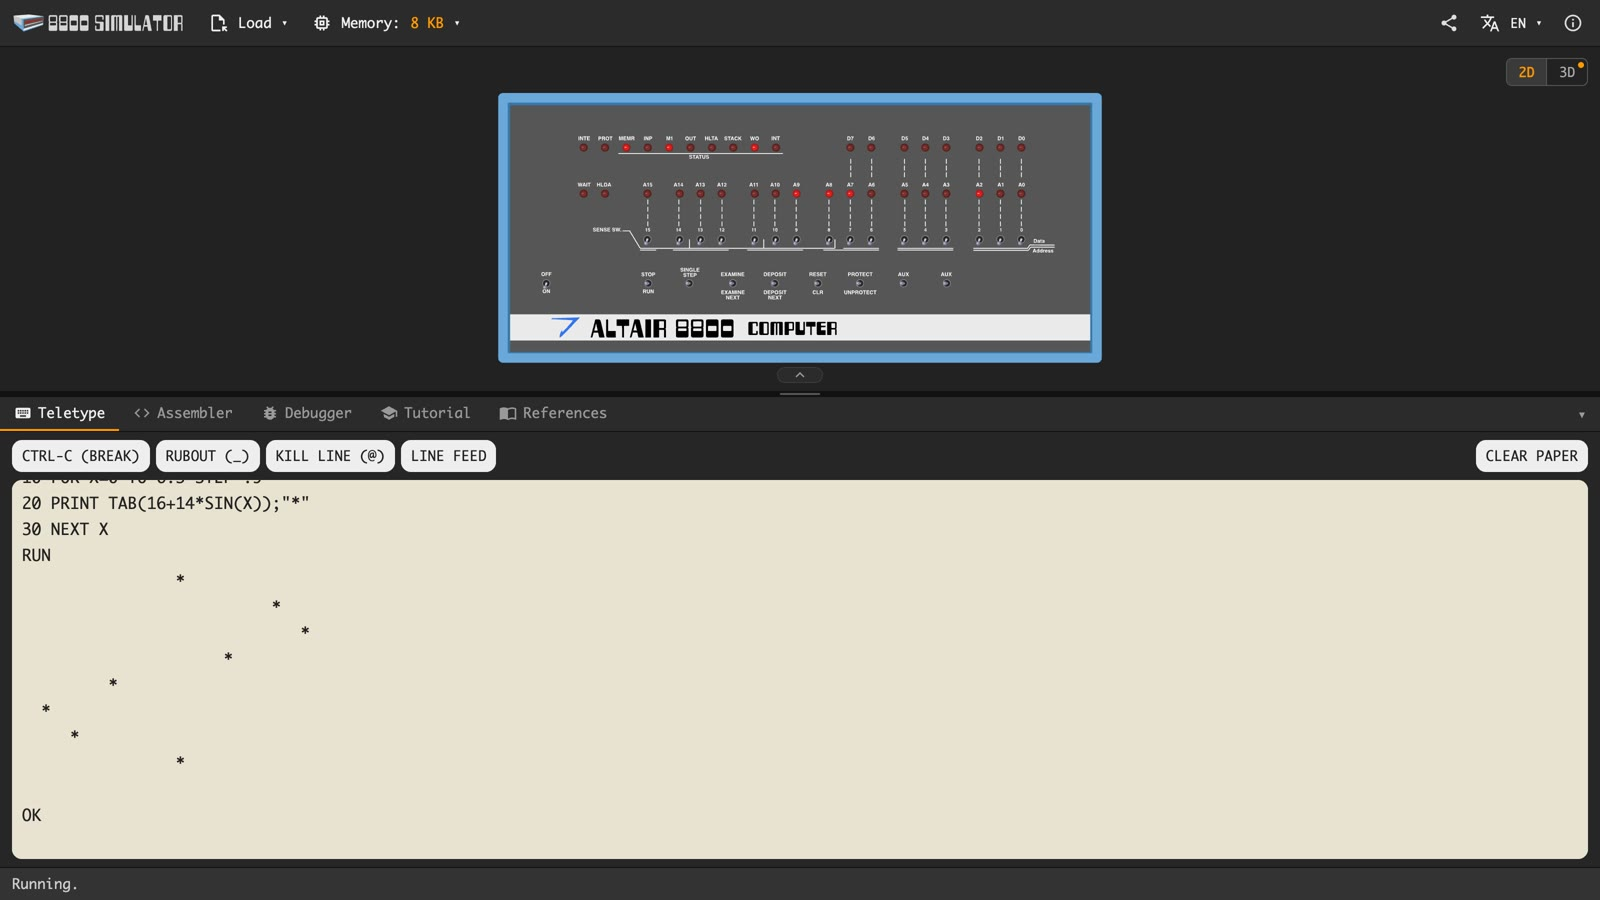
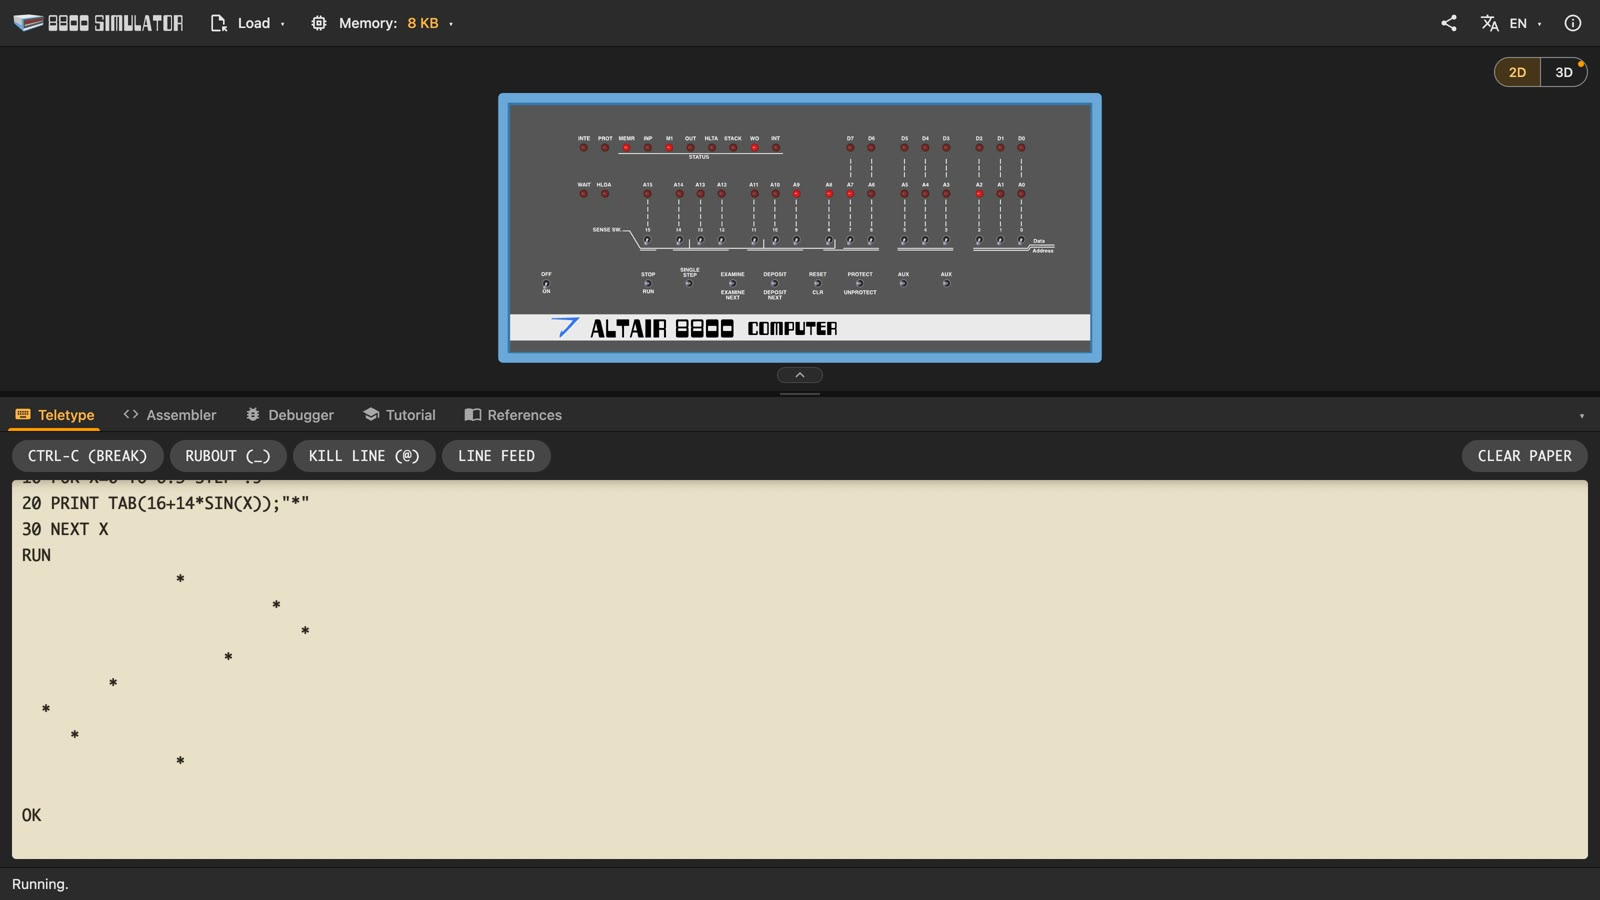
v1.9.0
The version, the README's screenshots, and its words brought in line
with Step and Run to, the phone's strip and Teletype keys, and the
pictures' alt text.

diff --git a/index.html b/index.html
@@ -26,11 +26,11 @@
          run icons (tools/icons.mjs). A browser that takes an SVG icon
          takes the second; sizes="32x32" on the first keeps Chrome from
          picking the .ico over it. -->
-    <link rel="icon" href="images/favicon.ico?v=1.8.3" sizes="32x32">
-    <link rel="icon" href="images/favicon.svg?v=1.8.3" type="image/svg+xml">
-    <link rel="apple-touch-icon" href="images/apple-touch-icon.png?v=1.8.3">
-    <link rel="manifest" href="manifest.webmanifest?v=1.8.3">
-    <link rel="stylesheet" href="css/style.css?v=1.8.3">
+    <link rel="icon" href="images/favicon.ico?v=1.9.0" sizes="32x32">
+    <link rel="icon" href="images/favicon.svg?v=1.9.0" type="image/svg+xml">
+    <link rel="apple-touch-icon" href="images/apple-touch-icon.png?v=1.9.0">
+    <link rel="manifest" href="manifest.webmanifest?v=1.9.0">
+    <link rel="stylesheet" href="css/style.css?v=1.9.0">
     <!-- Every file name here carries the version (?v=), and so does each
          module the scripts import, through this map: a release asks for
          new names, so no cache can serve an old file to a new page.
@@ -39,47 +39,47 @@
     <script type="importmap">
     {
       "imports": {
-        "./js/8080.js": "./js/8080.js?v=1.8.3",
-        "./js/app.js": "./js/app.js?v=1.8.3",
-        "./js/asm8080.js": "./js/asm8080.js?v=1.8.3",
-        "./js/asmtab.js": "./js/asmtab.js?v=1.8.3",
-        "./js/box.js": "./js/box.js?v=1.8.3",
-        "./js/dialog.js": "./js/dialog.js?v=1.8.3",
-        "./js/dropdown.js": "./js/dropdown.js?v=1.8.3",
-        "./js/l10n-3d.js": "./js/l10n-3d.js?v=1.8.3",
-        "./js/l10n.js": "./js/l10n.js?v=1.8.3",
-        "./js/link.js": "./js/link.js?v=1.8.3",
-        "./js/main.js": "./js/main.js?v=1.8.3",
-        "./js/panel-debug.js": "./js/panel-debug.js?v=1.8.3",
-        "./js/panel-dock.js": "./js/panel-dock.js?v=1.8.3",
-        "./js/panel-front.js": "./js/panel-front.js?v=1.8.3",
-        "./js/panel-link.js": "./js/panel-link.js?v=1.8.3",
-        "./js/panel-load.js": "./js/panel-load.js?v=1.8.3",
-        "./js/panel-tty.js": "./js/panel-tty.js?v=1.8.3",
-        "./js/panel-tutorial.js": "./js/panel-tutorial.js?v=1.8.3",
-        "./js/panel-view.js": "./js/panel-view.js?v=1.8.3",
-        "./js/panel.js": "./js/panel.js?v=1.8.3",
-        "./js/sim8800.js": "./js/sim8800.js?v=1.8.3",
-        "./js/sio.js": "./js/sio.js?v=1.8.3",
-        "./js/teletype.js": "./js/teletype.js?v=1.8.3",
-        "./js/view3d/boxBind.js": "./js/view3d/boxBind.js?v=1.8.3",
-        "./js/view3d/framing.js": "./js/view3d/framing.js?v=1.8.3",
-        "./js/view3d/panelBind.js": "./js/view3d/panelBind.js?v=1.8.3",
-        "./js/view3d/stage-state.js": "./js/view3d/stage-state.js?v=1.8.3",
-        "./js/view3d/view3d.js": "./js/view3d/view3d.js?v=1.8.3",
-        "./js/view3d/viewer.js": "./js/view3d/viewer.js?v=1.8.3",
-        "./js/view3d/views.js": "./js/view3d/views.js?v=1.8.3",
-        "./vendor/three/build/three.core.js": "./vendor/three/build/three.core.js?v=1.8.3",
-        "./vendor/three/build/three.module.js": "./vendor/three/build/three.module.js?v=1.8.3",
-        "./vendor/three/examples/jsm/controls/OrbitControls.js": "./vendor/three/examples/jsm/controls/OrbitControls.js?v=1.8.3",
-        "./vendor/three/examples/jsm/loaders/GLTFLoader.js": "./vendor/three/examples/jsm/loaders/GLTFLoader.js?v=1.8.3",
-        "./vendor/three/examples/jsm/utils/BufferGeometryUtils.js": "./vendor/three/examples/jsm/utils/BufferGeometryUtils.js?v=1.8.3",
-        "./vendor/three/examples/jsm/utils/SkeletonUtils.js": "./vendor/three/examples/jsm/utils/SkeletonUtils.js?v=1.8.3",
-        "three": "./vendor/three/build/three.module.js?v=1.8.3",
-        "three/addons/controls/OrbitControls.js": "./vendor/three/examples/jsm/controls/OrbitControls.js?v=1.8.3",
-        "three/addons/loaders/GLTFLoader.js": "./vendor/three/examples/jsm/loaders/GLTFLoader.js?v=1.8.3",
-        "three/addons/utils/BufferGeometryUtils.js": "./vendor/three/examples/jsm/utils/BufferGeometryUtils.js?v=1.8.3",
-        "three/addons/utils/SkeletonUtils.js": "./vendor/three/examples/jsm/utils/SkeletonUtils.js?v=1.8.3"
+        "./js/8080.js": "./js/8080.js?v=1.9.0",
+        "./js/app.js": "./js/app.js?v=1.9.0",
+        "./js/asm8080.js": "./js/asm8080.js?v=1.9.0",
+        "./js/asmtab.js": "./js/asmtab.js?v=1.9.0",
+        "./js/box.js": "./js/box.js?v=1.9.0",
+        "./js/dialog.js": "./js/dialog.js?v=1.9.0",
+        "./js/dropdown.js": "./js/dropdown.js?v=1.9.0",
+        "./js/l10n-3d.js": "./js/l10n-3d.js?v=1.9.0",
+        "./js/l10n.js": "./js/l10n.js?v=1.9.0",
+        "./js/link.js": "./js/link.js?v=1.9.0",
+        "./js/main.js": "./js/main.js?v=1.9.0",
+        "./js/panel-debug.js": "./js/panel-debug.js?v=1.9.0",
+        "./js/panel-dock.js": "./js/panel-dock.js?v=1.9.0",
+        "./js/panel-front.js": "./js/panel-front.js?v=1.9.0",
+        "./js/panel-link.js": "./js/panel-link.js?v=1.9.0",
+        "./js/panel-load.js": "./js/panel-load.js?v=1.9.0",
+        "./js/panel-tty.js": "./js/panel-tty.js?v=1.9.0",
+        "./js/panel-tutorial.js": "./js/panel-tutorial.js?v=1.9.0",
+        "./js/panel-view.js": "./js/panel-view.js?v=1.9.0",
+        "./js/panel.js": "./js/panel.js?v=1.9.0",
+        "./js/sim8800.js": "./js/sim8800.js?v=1.9.0",
+        "./js/sio.js": "./js/sio.js?v=1.9.0",
+        "./js/teletype.js": "./js/teletype.js?v=1.9.0",
+        "./js/view3d/boxBind.js": "./js/view3d/boxBind.js?v=1.9.0",
+        "./js/view3d/framing.js": "./js/view3d/framing.js?v=1.9.0",
+        "./js/view3d/panelBind.js": "./js/view3d/panelBind.js?v=1.9.0",
+        "./js/view3d/stage-state.js": "./js/view3d/stage-state.js?v=1.9.0",
+        "./js/view3d/view3d.js": "./js/view3d/view3d.js?v=1.9.0",
+        "./js/view3d/viewer.js": "./js/view3d/viewer.js?v=1.9.0",
+        "./js/view3d/views.js": "./js/view3d/views.js?v=1.9.0",
+        "./vendor/three/build/three.core.js": "./vendor/three/build/three.core.js?v=1.9.0",
+        "./vendor/three/build/three.module.js": "./vendor/three/build/three.module.js?v=1.9.0",
+        "./vendor/three/examples/jsm/controls/OrbitControls.js": "./vendor/three/examples/jsm/controls/OrbitControls.js?v=1.9.0",
+        "./vendor/three/examples/jsm/loaders/GLTFLoader.js": "./vendor/three/examples/jsm/loaders/GLTFLoader.js?v=1.9.0",
+        "./vendor/three/examples/jsm/utils/BufferGeometryUtils.js": "./vendor/three/examples/jsm/utils/BufferGeometryUtils.js?v=1.9.0",
+        "./vendor/three/examples/jsm/utils/SkeletonUtils.js": "./vendor/three/examples/jsm/utils/SkeletonUtils.js?v=1.9.0",
+        "three": "./vendor/three/build/three.module.js?v=1.9.0",
+        "three/addons/controls/OrbitControls.js": "./vendor/three/examples/jsm/controls/OrbitControls.js?v=1.9.0",
+        "three/addons/loaders/GLTFLoader.js": "./vendor/three/examples/jsm/loaders/GLTFLoader.js?v=1.9.0",
+        "three/addons/utils/BufferGeometryUtils.js": "./vendor/three/examples/jsm/utils/BufferGeometryUtils.js?v=1.9.0",
+        "three/addons/utils/SkeletonUtils.js": "./vendor/three/examples/jsm/utils/SkeletonUtils.js?v=1.9.0"
       }
     }
     </script>
@@ -121,8 +121,8 @@
         <div id="header-title">
           <picture>
             <source media="(max-width: 700px)"
-                    srcset="images/8800-simulator-logo.svg?v=1.8.3">
-            <img id="header-logo" class="logo" src="images/8800-simulator-logo-text-white.svg?v=1.8.3"
+                    srcset="images/8800-simulator-logo.svg?v=1.9.0">
+            <img id="header-logo" class="logo" src="images/8800-simulator-logo-text-white.svg?v=1.9.0"
                  alt="Altair 8800 Simulator" draggable="false">
           </picture>
         </div>
@@ -204,19 +204,19 @@
 
         <svg id="panel" width="100%" height="100%" viewBox="0 0 1440 644" version="1.1" xmlns="http://www.w3.org/2000/svg" xmlns:xlink="http://www.w3.org/1999/xlink" xml:space="preserve" xmlns:serif="http://www.serif.com/" style="fill-rule:evenodd;clip-rule:evenodd;stroke-linecap:round;stroke-linejoin:round;stroke-miterlimit:1.5;">
           <!-- Panel artwork. Edit images/panel.svg to change it. -->
-          <image x="0" y="0" width="1440" height="644" href="images/panel.svg?v=1.8.3"/>
+          <image x="0" y="0" width="1440" height="644" href="images/panel.svg?v=1.9.0"/>
 
           <!-- Sprites cloned by panel.js for every LED and switch. -->
-          <image id="led-on" x="0" y="0" width="20" height="20" href="images/led-on.svg?v=1.8.3"/>
-          <image id="led-off" x="0" y="0" width="20" height="20" href="images/led-off.svg?v=1.8.3"/>
-          <image id="switch-up" x="0" y="0" width="20" height="30" href="images/switch-up.svg?v=1.8.3"/>
-          <image id="switch-mid" x="0" y="0" width="20" height="30" href="images/switch-mid.svg?v=1.8.3"/>
-          <image id="switch-down" x="0" y="0" width="20" height="30" href="images/switch-down.svg?v=1.8.3"/>
+          <image id="led-on" x="0" y="0" width="20" height="20" href="images/led-on.svg?v=1.9.0"/>
+          <image id="led-off" x="0" y="0" width="20" height="20" href="images/led-off.svg?v=1.9.0"/>
+          <image id="switch-up" x="0" y="0" width="20" height="30" href="images/switch-up.svg?v=1.9.0"/>
+          <image id="switch-mid" x="0" y="0" width="20" height="30" href="images/switch-mid.svg?v=1.9.0"/>
+          <image id="switch-down" x="0" y="0" width="20" height="30" href="images/switch-down.svg?v=1.9.0"/>
         </svg>
 
         <!-- The whole machine in 3D, drawn by js/view3d/ once it is first
              chosen: three.js and the model load only then (M5). -->
-        <div id="stage3d" data-src="model/altair-8800.glb?v=1.8.3" hidden>
+        <div id="stage3d" data-src="model/altair-8800.glb?v=1.9.0" hidden>
           <div id="stage3d-progress" class="stage3d-progress" hidden><div></div></div>
           <p id="stage3d-message" class="stage3d-message" hidden></p>
           <div id="part-label" class="part-label" hidden></div>
@@ -419,7 +419,7 @@
           </header>
           <div class="lesson-intro">
             <figure class="lesson-photo">
-              <img src="images/tutorial/altair-8800-and-teletype.jpg?v=1.8.3" width="960" height="720" alt="" loading="lazy" draggable="false">
+              <img src="images/tutorial/altair-8800-and-teletype.jpg?v=1.9.0" width="960" height="720" alt="" loading="lazy" draggable="false">
               <figcaption><span id="tut-meet-photo" class="l10n">An Altair 8800 beside a Model 33 Teletype.</span>
                 <span class="photo-credit"><span id="tutorial-photo-by" class="l10n">Photo:</span> <a href="https://commons.wikimedia.org/wiki/File:Altair_8800_and_Model_33_ASR_Teletype.jpg" target="_blank" rel="noopener">Tim Colegrove</a>, <a href="https://creativecommons.org/licenses/by-sa/4.0/" target="_blank" rel="noopener">CC BY-SA 4.0</a></span></figcaption>
             </figure>
@@ -667,7 +667,7 @@ RUN</pre>
       </div>
       <div class="dialog-body">
         <!-- The logo names the app, so the title band only says About. -->
-        <img id="about-logo" class="logo" src="images/8800-simulator-logo-text-white.svg?v=1.8.3"
+        <img id="about-logo" class="logo" src="images/8800-simulator-logo-text-white.svg?v=1.9.0"
              alt="Altair 8800 Simulator" draggable="false">
         <p class="dialog-text about-version"><span id="about-version" class="l10n">Version</span> <span id="app-version"></span></p>
         <p id="about-desc" class="dialog-text l10n">An Altair 8800 you can switch on in a web page: its front panel, a teletype running Microsoft's 4K BASIC, an 8080 assembler, and a debugger the real one never had.</p>
@@ -704,10 +704,10 @@ RUN</pre>
       </div>
     </dialog>
 
-    <audio id="sound-beepbeep" src="audio/beepbeep.mp3?v=1.8.3"></audio>
-    <audio id="sound-switch" src="audio/switch.mp3?v=1.8.3"></audio>
-    <audio id="sound-toggle" src="audio/toggle.mp3?v=1.8.3"></audio>
+    <audio id="sound-beepbeep" src="audio/beepbeep.mp3?v=1.9.0"></audio>
+    <audio id="sound-switch" src="audio/switch.mp3?v=1.9.0"></audio>
+    <audio id="sound-toggle" src="audio/toggle.mp3?v=1.9.0"></audio>
 
-    <script type="module" src="js/main.js?v=1.8.3"></script>
+    <script type="module" src="js/main.js?v=1.9.0"></script>
   </body>
 </html>

diff --git a/README.md b/README.md
@@ -27,10 +27,10 @@ nothing to install, on a desktop or a phone, in ten languages.
 </tr>
 <tr>
 <td><b>Boot Microsoft 4K BASIC</b><br>Bill Gates and Paul Allen's 1975 BASIC, unmodified, on a Teletype.<br><img src="./screenshots/teletype.jpg" alt="Microsoft 4K BASIC on the Teletype: a short program typed in, and its sine wave of stars printed down the paper"></td>
-<td><b>Write 8080 assembly</b><br>Intel's own language, macros and all, assembled as you type.<br><img src="./screenshots/assembler.jpg" alt="The Assembler with the Macros example: coloured source on the left, each line's address and bytes on the right, the line being run marked in green"></td>
+<td><b>Write 8080 assembly</b><br>Intel's own language, macros and all, assembled as you type.<br><img src="./screenshots/assembler.jpg" alt="The Assembler with the Macros example: coloured source on the left, each line's address and bytes on the right, running"></td>
 </tr>
 <tr>
-<td><b>Watch the CPU work</b><br>Registers, the next instruction and memory, a step at a time.<br><img src="./screenshots/debugger.jpg" alt="The Debugger part way through the adder: the registers beside the next instruction, LDA 0081H, and the memory dump marking its three bytes"></td>
+<td><b>Watch the CPU work</b><br>Registers, the next instruction and memory, a step at a time.<br><img src="./screenshots/debugger.jpg" alt="The Debugger part way through the adder: the registers beside the next instruction, LDA 0081H, with Step and Run to under it, and the memory dump marking its three bytes"></td>
 <td><b>Learn as you go</b><br>Four lessons, from meeting the machine to running BASIC.<br><img src="./screenshots/tutorial.jpg" alt="The Tutorial's first lesson, Meet the Machine, under the front panel: a photo of an Altair 8800 beside a Teletype, and a paragraph on its history"></td>
 </tr>
 </table>
@@ -93,8 +93,10 @@ whole of the way in and out.
 The switches come in groups of three because 8080 programmers wrote
 bytes in octal: `00 111 010` is 072 octal, or 3AH. Click the panel's
 own switches, or the large buttons on the strip under it, which are
-easier to hit and show which switches are up. The small arrow on the
-strip's top edge folds it away.
+easier to hit and show which switches are up. On a phone the strip
+shortens the longer names (STEP, EXAM, DEP, NEXT) and puts the address
+switches a byte to a row. The small arrow on the strip's top edge
+folds it away.
 
 **One simplification.** SINGLE STEP here always runs one whole
 instruction, as the Altair's Operator's Manual describes it. The
@@ -176,9 +178,10 @@ tools below it, and a status line along the foot.
   the whole machine in 3D, and back (below).
 
 The **Debugger** is a view the real Altair never had. Step through a
-program with SINGLE STEP and watch it work:
+program, with SINGLE STEP or with its own Step and Run to, and watch
+it work:
 
-![The Debugger part way through the adder: the registers beside the next instruction, LDA 0081H, and the memory dump marking its three bytes](./screenshots/debugger.jpg)
+![The Debugger part way through the adder: the registers beside the next instruction, LDA 0081H, with Step and Run to under it, and the memory dump marking its three bytes](./screenshots/debugger.jpg)
 
 - **The registers**, with the flags S Z AC P CY lit when set.
 - **The next instruction**: its address, its bytes, its mnemonic with
@@ -256,7 +259,8 @@ Try the *Teletype Examples* from the Load menu, in this order:
    five tries.
 
 The keys a PC keyboard lacks, such as BREAK, RUBOUT and LINE FEED, are
-along the top of the paper.
+along the top of the paper; on a phone, where the paper takes the whole
+tab, they are under it.
 
 ### Microsoft 4K BASIC
 
@@ -307,7 +311,7 @@ Intel's answer, the same year, was assembly language: you write
 tab, under the panel, takes the language exactly as Intel's *8080
 Assembly Language Programming Manual* defines it, macros and all.
 
-![The Assembler with the Macros example: coloured source on the left, each line's address and bytes on the right, the line being run marked in green](./screenshots/assembler.jpg)
+![The Assembler with the Macros example: coloured source on the left, each line's address and bytes on the right, running](./screenshots/assembler.jpg)
 
 Here is that first program again, with names for its addresses
 instead of the numbers. It makes exactly the bytes you toggled in:

diff --git a/docs/ui-design.md b/docs/ui-design.md
@@ -161,7 +161,7 @@ Each kind of control is one component, used the same way everywhere:
 | Icon button | familiar app-level actions: Share, the language, About; folding the switch strip | always with a tooltip and a screen-reader name, both translated |
 | Empty state | guidance that matters only until something happens: the teletype's hint | shown inside the empty area, and gone once there is content |
 
-These are Material Design's patterns, and since v1.8.4 its look too
+These are Material Design's patterns, and since v1.9.0 its look too
 (P11). Every flat control on the dark chrome - toolbar buttons, dock
 tabs, the strip's tab - answers the pointer with the same highlight.
 
@@ -174,7 +174,7 @@ knows how all of them behave.
 
 ### P11 — Material 3's tokens, not its components
 
-Since v1.8.4 every control takes its colours, corners, type and states
+Since v1.9.0 every control takes its colours, corners, type and states
 from one set of design tokens on `:root` in `css/style.css`: Material 3's
 roles in a dark scheme around the panel's amber. The page's own
 elements are styled with them; no Material library is loaded.
